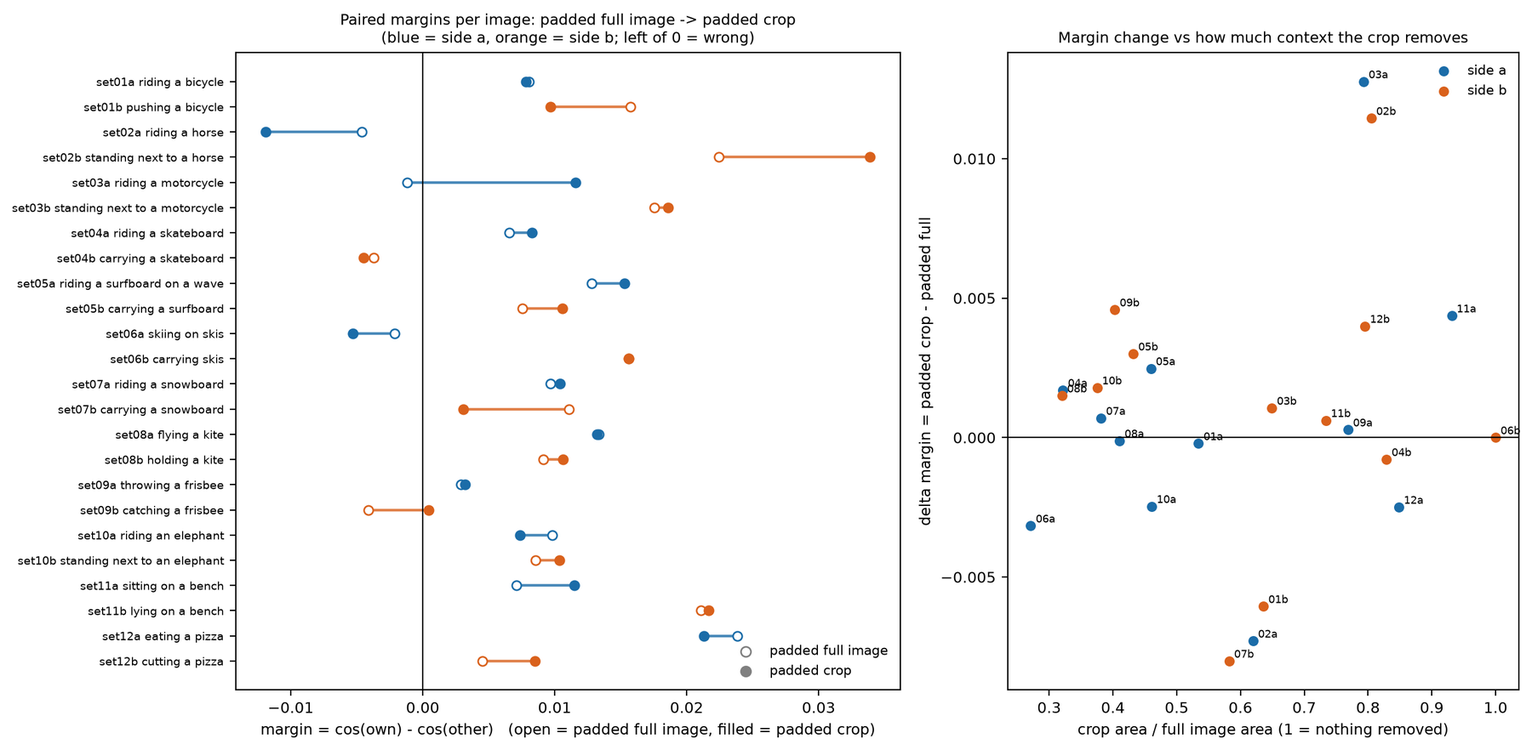
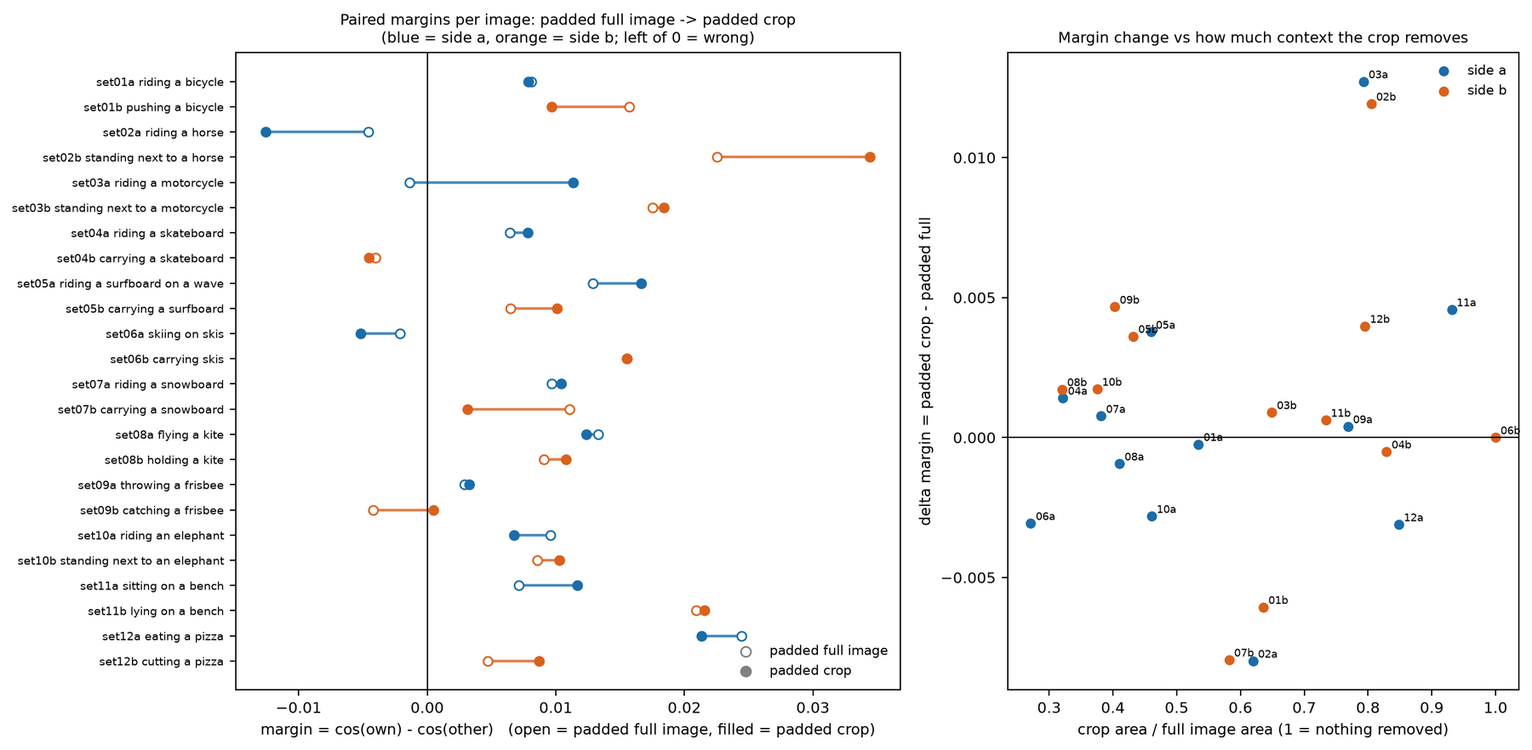
Update Part 3 Task 3 for the corrected pad colour and add the masked-context decomposition

diff --git a/Project1/index.html b/Project1/index.html
@@ -156,7 +156,7 @@ footer { font-family: var(--sans); font-size: .85rem; color: var(--muted); borde
   <h2>Abstract</h2>
   <p>I study two frozen pre-trained models on a small set of COCO photos. With torchvision's ViT-B/16 (ImageNet-1k weights) I show how a 224×224 image becomes 196 patch tokens plus one [CLS] token, check that the learned patch projection is a single linear map applied to every patch, and look at what the projection filters and positional embeddings learned. On 20 images from five ImageNet categories the classifier reaches a strict top-1 accuracy of 17/20 (0.85) and 19/20 (0.95) when "notebook" counts as "laptop", a rule fixed before the run. Two of the three strict errors are laptops called "notebook", and the third is an upside-down umbrella called "mountain tent".</p>
   <p>With OpenAI CLIP ViT-B/32 I re-implement the image–text scoring (normalise, cosine, scale by e<sup>τ</sup> = 100, softmax) and reproduce CLIP's own logits to within 10<sup>−5</sup>. All three prompt templates classify the same 20 images correctly; the wording changes only the margins, which grow from 8.80 to 9.77 logits on average for the longer templates. Image embeddings group by category (mean cosine 0.778 within a category, 0.532 across), but background, texture and scene also shape them.</p>
-  <p>For Part 3 I ask whether CLIP can tell two actions with the same object apart ("riding" vs "pushing" a bicycle) on 12 matched sets of 24 images. CLIP finds the right object for 24/24 images but picks the right action description for only 18/24 (7/12 sets with both images right); its action margins are about six times smaller than its object margins. Cropping each image to the person and the object, with padding so nothing else is cut away, has little effect (19/24 to 21/24 images, mean margin change +0.0008 with a 95% interval that includes zero).</p>
+  <p>For Part 3 I ask whether CLIP can tell two actions with the same object apart ("riding" vs "pushing" a bicycle) on 12 matched sets of 24 images. CLIP finds the right object for 24/24 images but picks the right action description for only 18/24 (7/12 sets with both images right); its action margins are about six times smaller than its object margins. Cropping each image to the person and the object, with padding so nothing else is cut away, has little effect (19/24 to 21/24 images, mean margin change +0.0008 with a 95% interval that includes zero). Masking the background at a fixed scale changes the mean margin by −0.0001, so the small gain goes with the zoom of the crop.</p>
 </section>
 
 <nav class="toc" aria-label="Contents">
@@ -490,15 +490,15 @@ footer { font-family: var(--sans); font-size: .85rem; color: var(--muted); borde
 <h4>First attempt, and why it was confounded</h4>
 <p>My first version passed the crops straight to CLIP's processor. With standard preprocessing, accuracy rose from 18/24 to 21/24 and both-correct sets from 7/12 to 9/12 (five images wrong → right, two right → wrong; exact McNemar p = 0.45; mean margin change +0.0013, bootstrap 95% interval [−0.0027, +0.0052]). Most of this pattern came from geometry. The processor center-crops the resized image, and many crops are tall, so it cut away their top and bottom. For five crops (set04a, set07a, set08a, set11b, set12b) less than half of the object box reached the input, and for three of them none of it did: the skateboard and snowboard under the feet and the kite in the sky (<a href="#fig-vis">Figure 18</a>). These five images lost margin on average (−0.0057) while the other 19 gained (+0.0032), and the change in visible object share correlated with the margin change (r = +0.38). Set07a, one of the two new failures, is one whose snowboard was cut out. That version changed context and object visibility at once.</p>
 <figure id="fig-vis" class="mid">
-  <img src="assets/part3_visibility.png" width="1800" height="1377" alt="Two heatmaps with 24 rows and four columns showing the visible fraction of the object box and of the person box under four preprocessing conditions.">
-  <figcaption><b>Figure 18.</b> Share of the COCO object box (left) and person box (right) that reaches CLIP's 224×224 input, for the full image and the crop with standard and with padded preprocessing.</figcaption>
+  <img src="assets/part3_visibility.png" width="1800" height="1250" alt="Two heatmaps with 24 rows and five columns showing the visible fraction of the object box and of the person box under five preprocessing conditions.">
+  <figcaption><b>Figure 18.</b> Share of the COCO object box (left) and person box (right) that reaches CLIP's 224×224 input, for the full image and the crop with standard and with padded preprocessing, and for the masked full image of the supplementary analysis.</figcaption>
 </figure>
 
 <h4>Main comparison: padded full image vs padded crop</h4>
-<p>To remove the visibility change, both the full image and the crop are padded to a square with a grey close to CLIP's mean colour (RGB 122, 116, 104) before the processor. The processor then only resizes and cuts nothing away, so the person and object boxes reach the input completely in both conditions (<a href="#fig-vis">Figure 18</a>, padded columns). Two other differences remain. The crop shows the person 1.0 to 2.05 times larger after resizing, so cropping removes context and zooms in at the same time. And set06b's crop is the whole image, so its two conditions are identical.</p>
+<p>To remove the visibility change, both the full image and the crop are padded to a square with CLIP's mean colour (RGB 123, 117, 104) before the processor. The processor then only resizes and cuts nothing away, so the person and object boxes reach the input completely in both conditions (<a href="#fig-vis">Figure 18</a>, padded columns). Two other differences remain. The crop shows the person 1.0 to 2.05 times larger after resizing, so cropping removes context and zooms in at the same time (a supplementary analysis below separates the two). And set06b's crop is the whole image, so its two conditions are identical.</p>
 <div class="table-wrap short" id="tab-cond">
   <p class="table-caption"><b>Table 16.</b> All four image conditions scored with the same texts and the same pipeline. The main comparison is the last two columns.</p>
-  <table class="cond"><thead><tr><th>Measure</th><th>Full image, standard (Task 2 baseline)</th><th>Crop, standard (first attempt)</th><th>Full image, padded</th><th>Crop, padded</th></tr></thead><tbody><tr><td>Image → description</td><td class="num ">18/24</td><td class="num ">21/24</td><td class="num ">19/24</td><td class="num ">21/24</td></tr><tr><td>Sets with both images correct</td><td class="num ">7/12</td><td class="num ">9/12</td><td class="num ">7/12</td><td class="num ">9/12</td></tr><tr><td>side a / side b correct</td><td class="num ">10 / 8</td><td class="num ">10 / 11</td><td class="num ">9 / 10</td><td class="num ">10 / 11</td></tr><tr><td>Description → image (column-wise)</td><td class="num ">16/24</td><td class="num ">15/24</td><td class="num ">16/24</td><td class="num ">17/24</td></tr><tr><td>Object found among 24 descriptions</td><td class="num ">24/24</td><td class="num ">24/24</td><td class="num ">24/24</td><td class="num ">24/24</td></tr><tr><td>Mean margin</td><td class="num ">+0.0088</td><td class="num ">+0.0102</td><td class="num ">+0.0088</td><td class="num ">+0.0096</td></tr><tr><td>Mean P(own description)</td><td class="num ">0.675</td><td class="num ">0.698</td><td class="num ">0.684</td><td class="num ">0.695</td></tr><tr><td>Max |own − built-in| logit</td><td class="num ">9.15&thinsp;×&thinsp;10<sup>-6</sup></td><td class="num ">6.95&thinsp;×&thinsp;10<sup>-6</sup></td><td class="num ">9.51&thinsp;×&thinsp;10<sup>-6</sup></td><td class="num ">7.66&thinsp;×&thinsp;10<sup>-6</sup></td></tr></tbody></table>
+  <table class="cond"><thead><tr><th>Measure</th><th>Full image, standard (Task 2 baseline)</th><th>Crop, standard (first attempt)</th><th>Full image, padded</th><th>Crop, padded</th></tr></thead><tbody><tr><td>Image → description</td><td class="num ">18/24</td><td class="num ">21/24</td><td class="num ">19/24</td><td class="num ">21/24</td></tr><tr><td>Sets with both images correct</td><td class="num ">7/12</td><td class="num ">9/12</td><td class="num ">7/12</td><td class="num ">9/12</td></tr><tr><td>side a / side b correct</td><td class="num ">10 / 8</td><td class="num ">10 / 11</td><td class="num ">9 / 10</td><td class="num ">10 / 11</td></tr><tr><td>Description → image (column-wise)</td><td class="num ">16/24</td><td class="num ">15/24</td><td class="num ">16/24</td><td class="num ">17/24</td></tr><tr><td>Object found among 24 descriptions</td><td class="num ">24/24</td><td class="num ">24/24</td><td class="num ">24/24</td><td class="num ">24/24</td></tr><tr><td>Mean margin</td><td class="num ">+0.0088</td><td class="num ">+0.0102</td><td class="num ">+0.0088</td><td class="num ">+0.0096</td></tr><tr><td>Mean P(own description)</td><td class="num ">0.675</td><td class="num ">0.698</td><td class="num ">0.682</td><td class="num ">0.694</td></tr><tr><td>Max |own − built-in| logit</td><td class="num ">9.15&thinsp;×&thinsp;10<sup>-6</sup></td><td class="num ">6.95&thinsp;×&thinsp;10<sup>-6</sup></td><td class="num ">7.96&thinsp;×&thinsp;10<sup>-6</sup></td><td class="num ">1.12&thinsp;×&thinsp;10<sup>-5</sup></td></tr></tbody></table>
 </div>
 <figure id="fig-croppad" class="mid">
   <img src="assets/part3_sim_matrices_crop_pad.jpg" width="1800" height="1410" alt="Twelve pairs of padded crops, each with its 2 by 2 similarity matrix.">
@@ -510,17 +510,30 @@ footer { font-family: var(--sans); font-size: .85rem; color: var(--muted); borde
 </figure>
 <div class="table-wrap" id="tab-perimg">
   <p class="table-caption"><b>Table 17.</b> Per-image margins (cosine units) in the baseline and the two padded conditions. Red = wrong (negative margin).</p>
-  <table class="perimg"><thead><tr><th>Image</th><th>Own description</th><th>Full, standard</th><th>Full, padded</th><th>Crop, padded</th><th>Δ (crop − full, padded)</th></tr></thead><tbody><tr><td>set01a</td><td>a person riding a bicycle</td><td class="num ">+0.0047</td><td class="num ">+0.0080</td><td class="num ">+0.0078</td><td class="num ">-0.0002</td></tr><tr><td>set01b</td><td>a person pushing a bicycle</td><td class="num ">+0.0087</td><td class="num ">+0.0157</td><td class="num ">+0.0097</td><td class="num ">-0.0061</td></tr><tr><td>set02a</td><td>a person riding a horse</td><td class="num neg">-0.0059</td><td class="num neg">-0.0046</td><td class="num neg">-0.0119</td><td class="num ">-0.0073</td></tr><tr><td>set02b</td><td>a person standing next to a horse</td><td class="num ">+0.0316</td><td class="num ">+0.0225</td><td class="num ">+0.0339</td><td class="num ">+0.0114</td></tr><tr><td>set03a</td><td>a person riding a motorcycle</td><td class="num ">+0.0127</td><td class="num neg">-0.0012</td><td class="num ">+0.0116</td><td class="num ">+0.0128</td></tr><tr><td>set03b</td><td>a person standing next to a motorcycle</td><td class="num ">+0.0152</td><td class="num ">+0.0175</td><td class="num ">+0.0186</td><td class="num ">+0.0011</td></tr><tr><td>set04a</td><td>a person riding a skateboard</td><td class="num ">+0.0100</td><td class="num ">+0.0066</td><td class="num ">+0.0083</td><td class="num ">+0.0017</td></tr><tr><td>set04b</td><td>a person carrying a skateboard</td><td class="num neg">-0.0052</td><td class="num neg">-0.0037</td><td class="num neg">-0.0045</td><td class="num ">-0.0008</td></tr><tr><td>set05a</td><td>a person riding a surfboard on a wave</td><td class="num ">+0.0141</td><td class="num ">+0.0128</td><td class="num ">+0.0153</td><td class="num ">+0.0025</td></tr><tr><td>set05b</td><td>a person carrying a surfboard</td><td class="num ">+0.0050</td><td class="num ">+0.0076</td><td class="num ">+0.0106</td><td class="num ">+0.0030</td></tr><tr><td>set06a</td><td>a person skiing on skis</td><td class="num ">+0.0140</td><td class="num neg">-0.0021</td><td class="num neg">-0.0053</td><td class="num ">-0.0032</td></tr><tr><td>set06b</td><td>a person carrying skis</td><td class="num ">+0.0210</td><td class="num ">+0.0156</td><td class="num ">+0.0156</td><td class="num ">+0.0000</td></tr><tr><td>set07a</td><td>a person riding a snowboard</td><td class="num ">+0.0078</td><td class="num ">+0.0097</td><td class="num ">+0.0104</td><td class="num ">+0.0007</td></tr><tr><td>set07b</td><td>a person carrying a snowboard</td><td class="num neg">-0.0010</td><td class="num ">+0.0111</td><td class="num ">+0.0031</td><td class="num ">-0.0080</td></tr><tr><td>set08a</td><td>a person flying a kite</td><td class="num ">+0.0221</td><td class="num ">+0.0133</td><td class="num ">+0.0132</td><td class="num ">-0.0001</td></tr><tr><td>set08b</td><td>a person holding a kite</td><td class="num neg">-0.0041</td><td class="num ">+0.0091</td><td class="num ">+0.0107</td><td class="num ">+0.0015</td></tr><tr><td>set09a</td><td>a person throwing a frisbee</td><td class="num neg">-0.0006</td><td class="num ">+0.0029</td><td class="num ">+0.0032</td><td class="num ">+0.0003</td></tr><tr><td>set09b</td><td>a person catching a frisbee</td><td class="num neg">-0.0022</td><td class="num neg">-0.0041</td><td class="num ">+0.0005</td><td class="num ">+0.0046</td></tr><tr><td>set10a</td><td>a person riding an elephant</td><td class="num ">+0.0075</td><td class="num ">+0.0098</td><td class="num ">+0.0074</td><td class="num ">-0.0025</td></tr><tr><td>set10b</td><td>a person standing next to an elephant</td><td class="num ">+0.0042</td><td class="num ">+0.0085</td><td class="num ">+0.0103</td><td class="num ">+0.0018</td></tr><tr><td>set11a</td><td>a person sitting on a bench</td><td class="num ">+0.0134</td><td class="num ">+0.0071</td><td class="num ">+0.0115</td><td class="num ">+0.0044</td></tr><tr><td>set11b</td><td>a person lying on a bench</td><td class="num ">+0.0010</td><td class="num ">+0.0211</td><td class="num ">+0.0217</td><td class="num ">+0.0006</td></tr><tr><td>set12a</td><td>a person eating a pizza</td><td class="num ">+0.0169</td><td class="num ">+0.0238</td><td class="num ">+0.0213</td><td class="num ">-0.0025</td></tr><tr><td>set12b</td><td>a person cutting a pizza</td><td class="num ">+0.0214</td><td class="num ">+0.0045</td><td class="num ">+0.0085</td><td class="num ">+0.0040</td></tr></tbody></table>
+  <table class="perimg"><thead><tr><th>Image</th><th>Own description</th><th>Full, standard</th><th>Full, padded</th><th>Crop, padded</th><th>Δ (crop − full, padded)</th></tr></thead><tbody><tr><td>set01a</td><td>a person riding a bicycle</td><td class="num ">+0.0047</td><td class="num ">+0.0081</td><td class="num ">+0.0079</td><td class="num ">-0.0002</td></tr><tr><td>set01b</td><td>a person pushing a bicycle</td><td class="num ">+0.0087</td><td class="num ">+0.0157</td><td class="num ">+0.0097</td><td class="num ">-0.0061</td></tr><tr><td>set02a</td><td>a person riding a horse</td><td class="num neg">-0.0059</td><td class="num neg">-0.0046</td><td class="num neg">-0.0125</td><td class="num ">-0.0080</td></tr><tr><td>set02b</td><td>a person standing next to a horse</td><td class="num ">+0.0316</td><td class="num ">+0.0225</td><td class="num ">+0.0344</td><td class="num ">+0.0119</td></tr><tr><td>set03a</td><td>a person riding a motorcycle</td><td class="num ">+0.0127</td><td class="num neg">-0.0014</td><td class="num ">+0.0113</td><td class="num ">+0.0127</td></tr><tr><td>set03b</td><td>a person standing next to a motorcycle</td><td class="num ">+0.0152</td><td class="num ">+0.0175</td><td class="num ">+0.0184</td><td class="num ">+0.0009</td></tr><tr><td>set04a</td><td>a person riding a skateboard</td><td class="num ">+0.0100</td><td class="num ">+0.0064</td><td class="num ">+0.0078</td><td class="num ">+0.0014</td></tr><tr><td>set04b</td><td>a person carrying a skateboard</td><td class="num neg">-0.0052</td><td class="num neg">-0.0040</td><td class="num neg">-0.0045</td><td class="num ">-0.0005</td></tr><tr><td>set05a</td><td>a person riding a surfboard on a wave</td><td class="num ">+0.0141</td><td class="num ">+0.0129</td><td class="num ">+0.0166</td><td class="num ">+0.0038</td></tr><tr><td>set05b</td><td>a person carrying a surfboard</td><td class="num ">+0.0050</td><td class="num ">+0.0065</td><td class="num ">+0.0101</td><td class="num ">+0.0036</td></tr><tr><td>set06a</td><td>a person skiing on skis</td><td class="num ">+0.0140</td><td class="num neg">-0.0021</td><td class="num neg">-0.0052</td><td class="num ">-0.0031</td></tr><tr><td>set06b</td><td>a person carrying skis</td><td class="num ">+0.0210</td><td class="num ">+0.0155</td><td class="num ">+0.0155</td><td class="num ">+0.0000</td></tr><tr><td>set07a</td><td>a person riding a snowboard</td><td class="num ">+0.0078</td><td class="num ">+0.0097</td><td class="num ">+0.0104</td><td class="num ">+0.0008</td></tr><tr><td>set07b</td><td>a person carrying a snowboard</td><td class="num neg">-0.0010</td><td class="num ">+0.0111</td><td class="num ">+0.0031</td><td class="num ">-0.0079</td></tr><tr><td>set08a</td><td>a person flying a kite</td><td class="num ">+0.0221</td><td class="num ">+0.0133</td><td class="num ">+0.0124</td><td class="num ">-0.0009</td></tr><tr><td>set08b</td><td>a person holding a kite</td><td class="num neg">-0.0041</td><td class="num ">+0.0091</td><td class="num ">+0.0108</td><td class="num ">+0.0017</td></tr><tr><td>set09a</td><td>a person throwing a frisbee</td><td class="num neg">-0.0006</td><td class="num ">+0.0029</td><td class="num ">+0.0033</td><td class="num ">+0.0004</td></tr><tr><td>set09b</td><td>a person catching a frisbee</td><td class="num neg">-0.0022</td><td class="num neg">-0.0042</td><td class="num ">+0.0005</td><td class="num ">+0.0047</td></tr><tr><td>set10a</td><td>a person riding an elephant</td><td class="num ">+0.0075</td><td class="num ">+0.0096</td><td class="num ">+0.0068</td><td class="num ">-0.0028</td></tr><tr><td>set10b</td><td>a person standing next to an elephant</td><td class="num ">+0.0042</td><td class="num ">+0.0086</td><td class="num ">+0.0103</td><td class="num ">+0.0017</td></tr><tr><td>set11a</td><td>a person sitting on a bench</td><td class="num ">+0.0134</td><td class="num ">+0.0071</td><td class="num ">+0.0117</td><td class="num ">+0.0046</td></tr><tr><td>set11b</td><td>a person lying on a bench</td><td class="num ">+0.0010</td><td class="num ">+0.0209</td><td class="num ">+0.0216</td><td class="num ">+0.0006</td></tr><tr><td>set12a</td><td>a person eating a pizza</td><td class="num ">+0.0169</td><td class="num ">+0.0245</td><td class="num ">+0.0213</td><td class="num ">-0.0031</td></tr><tr><td>set12b</td><td>a person cutting a pizza</td><td class="num ">+0.0214</td><td class="num ">+0.0047</td><td class="num ">+0.0087</td><td class="num ">+0.0040</td></tr></tbody></table>
 </div>
-<p><b>Result: removing the context has little effect.</b> With padding in both conditions, accuracy goes from 19/24 to 21/24 and both-correct sets from 7/12 to 9/12. Two images flip from wrong to right (set03a riding a motorcycle, set09b catching a frisbee) and none flip back; with two flips an exact McNemar test gives p = 0.50. The mean margin change is +0.0008, with a 95% bootstrap interval over sets of [−0.0007, +0.0024] (10,000 resamples, both images of a set resampled together). Margins go up for 14 images and down for 9 (sign test p = 0.40, set06b a tie), and per set 8 go up and 4 down (p = 0.39). The direction agrees with the dilution idea, but the effect is about a tenth of a typical margin and cannot be told from zero with 24 images. Object recognition is perfect in both conditions. Set02a, set04b and set06a are wrong with and without context.</p>
+<p><b>Result: removing the context has little effect.</b> With padding in both conditions, accuracy goes from 19/24 to 21/24 and both-correct sets from 7/12 to 9/12. Two images flip from wrong to right (set03a riding a motorcycle, set09b catching a frisbee) and none flip back; with two flips an exact McNemar test gives p = 0.50. The mean margin change is +0.0008, with a 95% bootstrap interval over sets of [−0.0007, +0.0025] (10,000 resamples, both images of a set resampled together). Margins go up for 14 images and down for 9 (sign test p = 0.40, set06b a tie), and per set 8 go up and 4 down (p = 0.39). The direction agrees with the dilution idea, but the effect is about a tenth of a typical margin and cannot be told from zero with 24 images. Object recognition is perfect in both conditions. Set02a, set04b and set06a are wrong with and without context.</p>
 <p>Padding also changes the story of the first attempt. With standard preprocessing the crop seemed to help the "passive" side-b images (10 up, 1 down) and hurt the sport images on side a. In the padded comparison the split is gone (side a 6 up and 6 down; side b 8 up and 3 down, p = 0.23; both exploratory, since the split was chosen after Task 2). Set07a (snowboarding) is right in both padded conditions, so its failure in the first attempt came from the cut-out snowboard. Set06a (skiing) is wrong even on the padded full image, so removing the slope did not cause its failure.</p>
-<p>Padding alone moves the results about as much as cropping. Going from the standard to the padded full image changes no content, only the scale and the grey bars, yet it flips 5 images (set07b, set08b and set09a to right; set03a and set06a to wrong; McNemar p = 1.0) and changes margins by a median of 0.0049, about 60% of the median margin of 0.0082, with a mean change of zero. With margins this small, harmless preprocessing choices decide several images either way, which is more evidence that the action signal is weak.</p>
+<p>Padding alone moves the results about as much as cropping. Going from the standard to the padded full image changes no content, only the scale and the grey bars, yet it flips 5 images (set07b, set08b and set09a to right; set03a and set06a to wrong; McNemar p = 1.0) and changes margins by a median of 0.0049, about 60% of the median margin of 0.0082, with a mean change of −0.0001. With margins this small, harmless preprocessing choices decide several images either way, which is more evidence that the action signal is weak.</p>
+
+<h4>Supplementary: context removal versus zoom</h4>
+<p>I added this analysis after the main result. It does not replace the main comparison. A fifth condition keeps the full image but fills every pixel outside the same crop region (union box + 10%) with the pad colour, and then pads the result to a square like the padded full image. That splits the main comparison into two steps that add up image by image. Step 1, from the padded full image to the masked one, removes the context at the same scale and position. Step 2, from the masked image to the padded crop, keeps exactly the same visible pixels and only enlarges them (zoom 1.0 to 2.05). Set06b is a tie in both steps. Like padding, grey masking makes an input CLIP rarely saw in training, so the masked image is an artificial probe.</p>
+<div class="table-wrap short" id="tab-decomp">
+  <p class="table-caption"><b>Table 18.</b> The main comparison split into its two steps (24 images; interval = 95% bootstrap over sets; tests are exact and two-sided).</p>
+  <table class="decomp"><thead><tr><th>Comparison</th><th>Image → description</th><th>Both-correct sets</th><th>Wrong → right / right → wrong</th><th>McNemar p</th><th>Mean Δ margin (95% CI)</th><th>Margins up / down</th><th>Sign test p</th></tr></thead><tbody><tr><td><b>Step 1: padded full → masked</b><br><span class="p">context removed, same scale</span></td><td class="num ">19 → 18/24</td><td class="num ">7 → 6/12</td><td class="num ">0 / 1</td><td class="num ">1.00</td><td class="num ">-0.0001<br><span class="p">[−0.0019, +0.0020]</span></td><td class="num ">12 / 11</td><td class="num ">1.00</td></tr><tr><td><b>Step 2: masked → padded crop</b><br><span class="p">zoom only, same visible content</span></td><td class="num ">18 → 21/24</td><td class="num ">6 → 9/12</td><td class="num ">3 / 0</td><td class="num ">0.25</td><td class="num ">+0.0009<br><span class="p">[−0.0014, +0.0031]</span></td><td class="num ">14 / 9</td><td class="num ">0.40</td></tr><tr><td><b>Main: padded full → padded crop</b><br><span class="p">both</span></td><td class="num ">19 → 21/24</td><td class="num ">7 → 9/12</td><td class="num ">2 / 0</td><td class="num ">0.50</td><td class="num ">+0.0008<br><span class="p">[−0.0007, +0.0025]</span></td><td class="num ">14 / 9</td><td class="num ">0.40</td></tr></tbody></table>
+</div>
+<figure id="fig-decomp" class="wide">
+  <img src="assets/part3_decomposition.png" width="1800" height="1117" alt="Left: one skiing image shown padded, masked outside the person-and-skis region and padded, and cropped and padded. Right: per-image margins for the three padded conditions connected by lines.">
+  <figcaption><b>Figure 21.</b> Left: set06a as padded full image, masked full image and padded crop. Right: every image's margin across step 1 (context removed, same scale) and step 2 (zoom only); labelled images are wrong in at least one condition.</figcaption>
+</figure>
+<p>Removing the context at a fixed scale does nothing measurable. The mean margin changes by −0.0001 [−0.0019, +0.0020], 12 images go up and 11 down, and the only flip is set07a, which becomes wrong. The small gain of the main comparison appears in step 2: set03a, set07a and set09b flip to right, none flip back (McNemar p = 0.25), and the mean margin rises by +0.0009 [−0.0014, +0.0031]. The 16 images that are really enlarged gain +0.0014 on average. The 7 whose crop keeps the long side, where step 2 only moves the content on the canvas, change by −0.0001. Across all images the change does not follow the zoom factor (r = +0.07), and neither step can be told from zero.</p>
+<p>Each step moves single images more than the main comparison does (mean absolute change 0.0048 and 0.0057 against 0.0036), so the steps partly cancel image by image. The grey mask disturbs the embedding by itself: two masked images, set01b and set08b, even lose their object, and object accuracy falls to 22/24 from 24/24 in both padded conditions. So the masked condition measures context removal plus a grey frame. Within that limit, it gives no sign that the background was hiding the action, and set02a, set04b and set06a stay wrong in all three padded conditions.</p>
 
 <h4>Alternative explanations and limits</h4>
 <ul>
-  <li>Zoom is still tied to context. The margin change shows no clear relation to the zoom factor (r = −0.11) or to the share of the image the crop keeps (r = +0.19), but 24 images say little. Separating the two would need a different change, such as greying out everything outside the union box without cropping.</li>
+  <li>Zoom is tied to context in the main comparison. The margin change shows no clear relation to the zoom factor (r = −0.08) or to the share of the image the crop keeps (r = +0.18), but 24 images say little. The masked condition above keeps the scale fixed, but it adds a grey frame of its own, so it is a probe rather than a clean separation.</li>
   <li>Context is evidence as well as noise. A wave, a slope or a road can support an action, and the crop removes it along with the distractors. A near-zero average may hide images that gain and images that lose for these opposite reasons.</li>
-  <li>Padding changes the input distribution, since CLIP rarely saw grey bars in training. Both padded conditions share this, so it should not bias their comparison, but it is why Task 2 uses the standard full images.</li>
+  <li>Padding changes the input distribution, since CLIP rarely saw grey bars in training. Both padded conditions share this, so it should not bias their comparison, but it is why Task 2 uses the standard full images. Grey masking goes further: the person sits in a sharp-edged window inside a large grey area.</li>
   <li>Sample size and selection. 12 sets and 24 images give every test here low power, and the COCO caption search plus the visual check favour clear, typical scenes, so effect sizes may not carry over to other photos.</li>
 </ul>
 
@@ -530,7 +543,7 @@ footer { font-family: var(--sans); font-size: .85rem; color: var(--muted); borde
   <li>ViT-B/16 turns a 224×224 image into 196 patch tokens plus a [CLS] token through one linear projection, and its learned positional embeddings recover the 2-D grid. As a classifier it reaches 17/20 (strict) and 19/20 (lenient) on our images. Its errors come mostly from the fixed label set: overlapping names, one label per image, and no way to express concepts outside the 1000 classes.</li>
   <li>CLIP's scoring is normalise, cosine, multiply by 100, softmax, and my implementation reproduces CLIP's logits to float32 rounding. Softmax probabilities are relative to the candidate list. Prompt wording left accuracy at 20/20 but changed the margins, and it does not touch the model's weights.</li>
   <li>CLIP's image embeddings group by category first and also reflect scene, background and texture.</li>
-  <li>CLIP recognises the object in 24/24 Part 3 images but separates two actions on that object in only 18/24 images (7/12 sets), with margins about six times smaller than its object margins. Removing the background, without cutting away the person or object, has little effect on this, and preprocessing details alone flip several decisions.</li>
+  <li>CLIP recognises the object in 24/24 Part 3 images but separates two actions on that object in only 18/24 images (7/12 sets), with margins about six times smaller than its object margins. Removing the background, without cutting away the person or object, has little effect on this, and preprocessing details alone flip several decisions. Masking the background at a fixed scale leaves the mean margin unchanged (−0.0001); the small gain of the crop comes with showing the person larger, and it is not distinguishable from zero either.</li>
 </ul>
 
 <h2 id="ai" class="no-break">6. Use of AI tools</h2>
@@ -540,7 +553,7 @@ footer { font-family: var(--sans); font-size: .85rem; color: var(--muted); borde
 <h2 id="sources">Appendix: image sources and licenses</h2>
 <p>All 44 images are COCO 2017 photos hosted on Flickr. COCO records each photo's license and original URL but not the photographer's name; the Flickr link identifies the source. The figures on this page show resized and cropped versions of these photos, used for non-commercial coursework with attribution. License counts: Parts 1 and 2, 15 CC BY 2.0 and 5 CC BY-SA 2.0; Part 3, 13 CC BY 2.0, 10 CC BY-SA 2.0 and 1 CC BY-NC-SA 2.0 (set01b).</p>
 <div class="table-wrap" id="tab-src">
-  <p class="table-caption"><b>Table 18.</b> Every image used in this report.</p>
+  <p class="table-caption"><b>Table 19.</b> Every image used in this report.</p>
   <table class="src"><thead><tr><th>File</th><th>Part</th><th>Category / description</th><th>COCO id</th><th>COCO split</th><th>License</th><th>Original</th></tr></thead><tbody><tr><td>part12/zebra/172977.jpg</td><td>1, 2</td><td>zebra</td><td><a href="http://images.cocodataset.org/val2017/000000172977.jpg">172977</a></td><td>val2017</td><td><a href="http://creativecommons.org/licenses/by-sa/2.0/">CC BY-SA 2.0</a></td><td><a href="http://farm3.staticflickr.com/2751/5719822970_84357ed931_z.jpg">Flickr</a></td></tr><tr><td>part12/zebra/102333.jpg</td><td>1, 2</td><td>zebra</td><td><a href="http://images.cocodataset.org/train2017/000000102333.jpg">102333</a></td><td>train2017</td><td><a href="http://creativecommons.org/licenses/by-sa/2.0/">CC BY-SA 2.0</a></td><td><a href="http://farm8.staticflickr.com/7137/7611631202_95e12a6d81_z.jpg">Flickr</a></td></tr><tr><td>part12/zebra/137734.jpg</td><td>1, 2</td><td>zebra</td><td><a href="http://images.cocodataset.org/train2017/000000137734.jpg">137734</a></td><td>train2017</td><td><a href="http://creativecommons.org/licenses/by/2.0/">CC BY 2.0</a></td><td><a href="http://farm2.staticflickr.com/1233/677921002_89335ff658_z.jpg">Flickr</a></td></tr><tr><td>part12/zebra/371004.jpg</td><td>1, 2</td><td>zebra</td><td><a href="http://images.cocodataset.org/train2017/000000371004.jpg">371004</a></td><td>train2017</td><td><a href="http://creativecommons.org/licenses/by-sa/2.0/">CC BY-SA 2.0</a></td><td><a href="http://farm4.staticflickr.com/3074/2854752960_59d05ff999_z.jpg">Flickr</a></td></tr><tr><td>part12/banana/59708.jpg</td><td>1, 2</td><td>banana</td><td><a href="http://images.cocodataset.org/train2017/000000059708.jpg">59708</a></td><td>train2017</td><td><a href="http://creativecommons.org/licenses/by/2.0/">CC BY 2.0</a></td><td><a href="http://farm4.staticflickr.com/3417/3589342867_28a4b4a891_z.jpg">Flickr</a></td></tr><tr><td>part12/banana/527453.jpg</td><td>1, 2</td><td>banana</td><td><a href="http://images.cocodataset.org/train2017/000000527453.jpg">527453</a></td><td>train2017</td><td><a href="http://creativecommons.org/licenses/by/2.0/">CC BY 2.0</a></td><td><a href="http://farm7.staticflickr.com/6201/6120516684_16d53a3fe3_z.jpg">Flickr</a></td></tr><tr><td>part12/banana/58008.jpg</td><td>1, 2</td><td>banana</td><td><a href="http://images.cocodataset.org/train2017/000000058008.jpg">58008</a></td><td>train2017</td><td><a href="http://creativecommons.org/licenses/by-sa/2.0/">CC BY-SA 2.0</a></td><td><a href="http://farm1.staticflickr.com/53/113543638_ab1e310967_z.jpg">Flickr</a></td></tr><tr><td>part12/banana/99642.jpg</td><td>1, 2</td><td>banana</td><td><a href="http://images.cocodataset.org/train2017/000000099642.jpg">99642</a></td><td>train2017</td><td><a href="http://creativecommons.org/licenses/by/2.0/">CC BY 2.0</a></td><td><a href="http://farm8.staticflickr.com/7421/9225635492_e3f5d73d85_z.jpg">Flickr</a></td></tr><tr><td>part12/pizza/360393.jpg</td><td>1, 2</td><td>pizza</td><td><a href="http://images.cocodataset.org/val2017/000000360393.jpg">360393</a></td><td>val2017</td><td><a href="http://creativecommons.org/licenses/by/2.0/">CC BY 2.0</a></td><td><a href="http://farm8.staticflickr.com/7153/6533098435_76b2fe85a0_z.jpg">Flickr</a></td></tr><tr><td>part12/pizza/443742.jpg</td><td>1, 2</td><td>pizza</td><td><a href="http://images.cocodataset.org/train2017/000000443742.jpg">443742</a></td><td>train2017</td><td><a href="http://creativecommons.org/licenses/by/2.0/">CC BY 2.0</a></td><td><a href="http://farm3.staticflickr.com/2451/3840260017_07d6b7a8a8_z.jpg">Flickr</a></td></tr><tr><td>part12/pizza/93053.jpg</td><td>1, 2</td><td>pizza</td><td><a href="http://images.cocodataset.org/train2017/000000093053.jpg">93053</a></td><td>train2017</td><td><a href="http://creativecommons.org/licenses/by/2.0/">CC BY 2.0</a></td><td><a href="http://farm8.staticflickr.com/7047/6815289282_65e844f128_z.jpg">Flickr</a></td></tr><tr><td>part12/pizza/353027.jpg</td><td>1, 2</td><td>pizza</td><td><a href="http://images.cocodataset.org/val2017/000000353027.jpg">353027</a></td><td>val2017</td><td><a href="http://creativecommons.org/licenses/by/2.0/">CC BY 2.0</a></td><td><a href="http://farm3.staticflickr.com/2019/4510783064_db7ebd7bc4_z.jpg">Flickr</a></td></tr><tr><td>part12/laptop/248631.jpg</td><td>1, 2</td><td>laptop</td><td><a href="http://images.cocodataset.org/val2017/000000248631.jpg">248631</a></td><td>val2017</td><td><a href="http://creativecommons.org/licenses/by/2.0/">CC BY 2.0</a></td><td><a href="http://farm8.staticflickr.com/7209/6856333555_8988fcece0_z.jpg">Flickr</a></td></tr><tr><td>part12/laptop/8999.jpg</td><td>1, 2</td><td>laptop</td><td><a href="http://images.cocodataset.org/train2017/000000008999.jpg">8999</a></td><td>train2017</td><td><a href="http://creativecommons.org/licenses/by/2.0/">CC BY 2.0</a></td><td><a href="http://farm7.staticflickr.com/6071/6041729835_5e516b71d7_z.jpg">Flickr</a></td></tr><tr><td>part12/laptop/232121.jpg</td><td>1, 2</td><td>laptop</td><td><a href="http://images.cocodataset.org/train2017/000000232121.jpg">232121</a></td><td>train2017</td><td><a href="http://creativecommons.org/licenses/by/2.0/">CC BY 2.0</a></td><td><a href="http://farm7.staticflickr.com/6027/5952675113_ce8e423ca1_z.jpg">Flickr</a></td></tr><tr><td>part12/laptop/417153.jpg</td><td>1, 2</td><td>laptop</td><td><a href="http://images.cocodataset.org/train2017/000000417153.jpg">417153</a></td><td>train2017</td><td><a href="http://creativecommons.org/licenses/by/2.0/">CC BY 2.0</a></td><td><a href="http://farm9.staticflickr.com/8468/8135664696_47fcd0b359_z.jpg">Flickr</a></td></tr><tr><td>part12/umbrella/286141.jpg</td><td>1, 2</td><td>umbrella</td><td><a href="http://images.cocodataset.org/train2017/000000286141.jpg">286141</a></td><td>train2017</td><td><a href="http://creativecommons.org/licenses/by/2.0/">CC BY 2.0</a></td><td><a href="http://farm8.staticflickr.com/7144/6387563037_b0a02bd332_z.jpg">Flickr</a></td></tr><tr><td>part12/umbrella/123916.jpg</td><td>1, 2</td><td>umbrella</td><td><a href="http://images.cocodataset.org/train2017/000000123916.jpg">123916</a></td><td>train2017</td><td><a href="http://creativecommons.org/licenses/by/2.0/">CC BY 2.0</a></td><td><a href="http://farm6.staticflickr.com/5189/5657482336_8317728c79_z.jpg">Flickr</a></td></tr><tr><td>part12/umbrella/319322.jpg</td><td>1, 2</td><td>umbrella</td><td><a href="http://images.cocodataset.org/train2017/000000319322.jpg">319322</a></td><td>train2017</td><td><a href="http://creativecommons.org/licenses/by/2.0/">CC BY 2.0</a></td><td><a href="http://farm9.staticflickr.com/8473/8366328869_fed292f890_z.jpg">Flickr</a></td></tr><tr><td>part12/umbrella/565572.jpg</td><td>1, 2</td><td>umbrella</td><td><a href="http://images.cocodataset.org/train2017/000000565572.jpg">565572</a></td><td>train2017</td><td><a href="http://creativecommons.org/licenses/by-sa/2.0/">CC BY-SA 2.0</a></td><td><a href="http://farm8.staticflickr.com/7274/7643554098_82d9a0a016_z.jpg">Flickr</a></td></tr><tr><td>part3/set01_a.jpg</td><td>3</td><td>set01 · &quot;a person riding a bicycle&quot;</td><td><a href="http://images.cocodataset.org/train2017/000000461458.jpg">461458</a></td><td>train2017</td><td><a href="http://creativecommons.org/licenses/by-sa/2.0/">CC BY-SA 2.0</a></td><td><a href="http://farm2.staticflickr.com/1371/582139582_0e1173541f_z.jpg">Flickr</a></td></tr><tr><td>part3/set01_b.jpg</td><td>3</td><td>set01 · &quot;a person pushing a bicycle&quot;</td><td><a href="http://images.cocodataset.org/train2017/000000418816.jpg">418816</a></td><td>train2017</td><td><a href="http://creativecommons.org/licenses/by-nc-sa/2.0/">CC BY-NC-SA 2.0</a></td><td><a href="http://farm5.staticflickr.com/4024/4452964139_0e98da6512_z.jpg">Flickr</a></td></tr><tr><td>part3/set02_a.jpg</td><td>3</td><td>set02 · &quot;a person riding a horse&quot;</td><td><a href="http://images.cocodataset.org/train2017/000000545950.jpg">545950</a></td><td>train2017</td><td><a href="http://creativecommons.org/licenses/by-sa/2.0/">CC BY-SA 2.0</a></td><td><a href="http://farm9.staticflickr.com/8091/8515124320_883f950507_z.jpg">Flickr</a></td></tr><tr><td>part3/set02_b.jpg</td><td>3</td><td>set02 · &quot;a person standing next to a horse&quot;</td><td><a href="http://images.cocodataset.org/train2017/000000093287.jpg">93287</a></td><td>train2017</td><td><a href="http://creativecommons.org/licenses/by-sa/2.0/">CC BY-SA 2.0</a></td><td><a href="http://farm9.staticflickr.com/8382/8670003467_986be288dd_z.jpg">Flickr</a></td></tr><tr><td>part3/set03_a.jpg</td><td>3</td><td>set03 · &quot;a person riding a motorcycle&quot;</td><td><a href="http://images.cocodataset.org/train2017/000000090843.jpg">90843</a></td><td>train2017</td><td><a href="http://creativecommons.org/licenses/by/2.0/">CC BY 2.0</a></td><td><a href="http://farm8.staticflickr.com/7082/7170788357_7ba1a4e20c_z.jpg">Flickr</a></td></tr><tr><td>part3/set03_b.jpg</td><td>3</td><td>set03 · &quot;a person standing next to a motorcycle&quot;</td><td><a href="http://images.cocodataset.org/train2017/000000296257.jpg">296257</a></td><td>train2017</td><td><a href="http://creativecommons.org/licenses/by/2.0/">CC BY 2.0</a></td><td><a href="http://farm9.staticflickr.com/8462/8062992543_e5e82522ca_z.jpg">Flickr</a></td></tr><tr><td>part3/set04_a.jpg</td><td>3</td><td>set04 · &quot;a person riding a skateboard&quot;</td><td><a href="http://images.cocodataset.org/train2017/000000514083.jpg">514083</a></td><td>train2017</td><td><a href="http://creativecommons.org/licenses/by/2.0/">CC BY 2.0</a></td><td><a href="http://farm3.staticflickr.com/2111/2371834755_bdf6928f52_z.jpg">Flickr</a></td></tr><tr><td>part3/set04_b.jpg</td><td>3</td><td>set04 · &quot;a person carrying a skateboard&quot;</td><td><a href="http://images.cocodataset.org/train2017/000000141759.jpg">141759</a></td><td>train2017</td><td><a href="http://creativecommons.org/licenses/by-sa/2.0/">CC BY-SA 2.0</a></td><td><a href="http://farm8.staticflickr.com/7190/6962848985_707ab3c35b_z.jpg">Flickr</a></td></tr><tr><td>part3/set05_a.jpg</td><td>3</td><td>set05 · &quot;a person riding a surfboard on a wave&quot;</td><td><a href="http://images.cocodataset.org/train2017/000000007757.jpg">7757</a></td><td>train2017</td><td><a href="http://creativecommons.org/licenses/by-sa/2.0/">CC BY-SA 2.0</a></td><td><a href="http://farm9.staticflickr.com/8534/8685486710_c5cb72cb84_z.jpg">Flickr</a></td></tr><tr><td>part3/set05_b.jpg</td><td>3</td><td>set05 · &quot;a person carrying a surfboard&quot;</td><td><a href="http://images.cocodataset.org/train2017/000000071713.jpg">71713</a></td><td>train2017</td><td><a href="http://creativecommons.org/licenses/by/2.0/">CC BY 2.0</a></td><td><a href="http://farm7.staticflickr.com/6040/6314343187_10d3a6c297_z.jpg">Flickr</a></td></tr><tr><td>part3/set06_a.jpg</td><td>3</td><td>set06 · &quot;a person skiing on skis&quot;</td><td><a href="http://images.cocodataset.org/train2017/000000042820.jpg">42820</a></td><td>train2017</td><td><a href="http://creativecommons.org/licenses/by/2.0/">CC BY 2.0</a></td><td><a href="http://farm8.staticflickr.com/7052/6869652847_51218b5b1d_z.jpg">Flickr</a></td></tr><tr><td>part3/set06_b.jpg</td><td>3</td><td>set06 · &quot;a person carrying skis&quot;</td><td><a href="http://images.cocodataset.org/train2017/000000178751.jpg">178751</a></td><td>train2017</td><td><a href="http://creativecommons.org/licenses/by-sa/2.0/">CC BY-SA 2.0</a></td><td><a href="http://farm4.staticflickr.com/3648/3324052214_9d883b428c_z.jpg">Flickr</a></td></tr><tr><td>part3/set07_a.jpg</td><td>3</td><td>set07 · &quot;a person riding a snowboard&quot;</td><td><a href="http://images.cocodataset.org/train2017/000000132510.jpg">132510</a></td><td>train2017</td><td><a href="http://creativecommons.org/licenses/by-sa/2.0/">CC BY-SA 2.0</a></td><td><a href="http://farm2.staticflickr.com/1043/527436152_1601019248_z.jpg">Flickr</a></td></tr><tr><td>part3/set07_b.jpg</td><td>3</td><td>set07 · &quot;a person carrying a snowboard&quot;</td><td><a href="http://images.cocodataset.org/train2017/000000147913.jpg">147913</a></td><td>train2017</td><td><a href="http://creativecommons.org/licenses/by/2.0/">CC BY 2.0</a></td><td><a href="http://farm2.staticflickr.com/1203/1458761995_43137b2a83_z.jpg">Flickr</a></td></tr><tr><td>part3/set08_a.jpg</td><td>3</td><td>set08 · &quot;a person flying a kite&quot;</td><td><a href="http://images.cocodataset.org/train2017/000000551518.jpg">551518</a></td><td>train2017</td><td><a href="http://creativecommons.org/licenses/by/2.0/">CC BY 2.0</a></td><td><a href="http://farm1.staticflickr.com/42/85954212_6df6423bca_z.jpg">Flickr</a></td></tr><tr><td>part3/set08_b.jpg</td><td>3</td><td>set08 · &quot;a person holding a kite&quot;</td><td><a href="http://images.cocodataset.org/train2017/000000530509.jpg">530509</a></td><td>train2017</td><td><a href="http://creativecommons.org/licenses/by-sa/2.0/">CC BY-SA 2.0</a></td><td><a href="http://farm4.staticflickr.com/3432/3800897721_81200fc801_z.jpg">Flickr</a></td></tr><tr><td>part3/set09_a.jpg</td><td>3</td><td>set09 · &quot;a person throwing a frisbee&quot;</td><td><a href="http://images.cocodataset.org/train2017/000000558661.jpg">558661</a></td><td>train2017</td><td><a href="http://creativecommons.org/licenses/by/2.0/">CC BY 2.0</a></td><td><a href="http://farm1.staticflickr.com/72/195124245_5a11dcfd73_z.jpg">Flickr</a></td></tr><tr><td>part3/set09_b.jpg</td><td>3</td><td>set09 · &quot;a person catching a frisbee&quot;</td><td><a href="http://images.cocodataset.org/val2017/000000328238.jpg">328238</a></td><td>val2017</td><td><a href="http://creativecommons.org/licenses/by/2.0/">CC BY 2.0</a></td><td><a href="http://farm1.staticflickr.com/72/195124056_e466628448_z.jpg">Flickr</a></td></tr><tr><td>part3/set10_a.jpg</td><td>3</td><td>set10 · &quot;a person riding an elephant&quot;</td><td><a href="http://images.cocodataset.org/train2017/000000122998.jpg">122998</a></td><td>train2017</td><td><a href="http://creativecommons.org/licenses/by/2.0/">CC BY 2.0</a></td><td><a href="http://farm5.staticflickr.com/4038/4198644812_3505a4f7f6_z.jpg">Flickr</a></td></tr><tr><td>part3/set10_b.jpg</td><td>3</td><td>set10 · &quot;a person standing next to an elephant&quot;</td><td><a href="http://images.cocodataset.org/train2017/000000252759.jpg">252759</a></td><td>train2017</td><td><a href="http://creativecommons.org/licenses/by/2.0/">CC BY 2.0</a></td><td><a href="http://farm9.staticflickr.com/8377/8486668034_82a375fd69_z.jpg">Flickr</a></td></tr><tr><td>part3/set11_a.jpg</td><td>3</td><td>set11 · &quot;a person sitting on a bench&quot;</td><td><a href="http://images.cocodataset.org/train2017/000000220226.jpg">220226</a></td><td>train2017</td><td><a href="http://creativecommons.org/licenses/by-sa/2.0/">CC BY-SA 2.0</a></td><td><a href="http://farm4.staticflickr.com/3204/2766029691_83c182da55_z.jpg">Flickr</a></td></tr><tr><td>part3/set11_b.jpg</td><td>3</td><td>set11 · &quot;a person lying on a bench&quot;</td><td><a href="http://images.cocodataset.org/train2017/000000570268.jpg">570268</a></td><td>train2017</td><td><a href="http://creativecommons.org/licenses/by-sa/2.0/">CC BY-SA 2.0</a></td><td><a href="http://farm4.staticflickr.com/3036/2708660678_a0729aed20_z.jpg">Flickr</a></td></tr><tr><td>part3/set12_a.jpg</td><td>3</td><td>set12 · &quot;a person eating a pizza&quot;</td><td><a href="http://images.cocodataset.org/train2017/000000102330.jpg">102330</a></td><td>train2017</td><td><a href="http://creativecommons.org/licenses/by/2.0/">CC BY 2.0</a></td><td><a href="http://farm3.staticflickr.com/2550/3752281547_0e3755dd0b_z.jpg">Flickr</a></td></tr><tr><td>part3/set12_b.jpg</td><td>3</td><td>set12 · &quot;a person cutting a pizza&quot;</td><td><a href="http://images.cocodataset.org/train2017/000000209287.jpg">209287</a></td><td>train2017</td><td><a href="http://creativecommons.org/licenses/by/2.0/">CC BY 2.0</a></td><td><a href="http://farm4.staticflickr.com/3668/9623145160_9321d713b0_z.jpg">Flickr</a></td></tr></tbody></table>
 </div>
 
